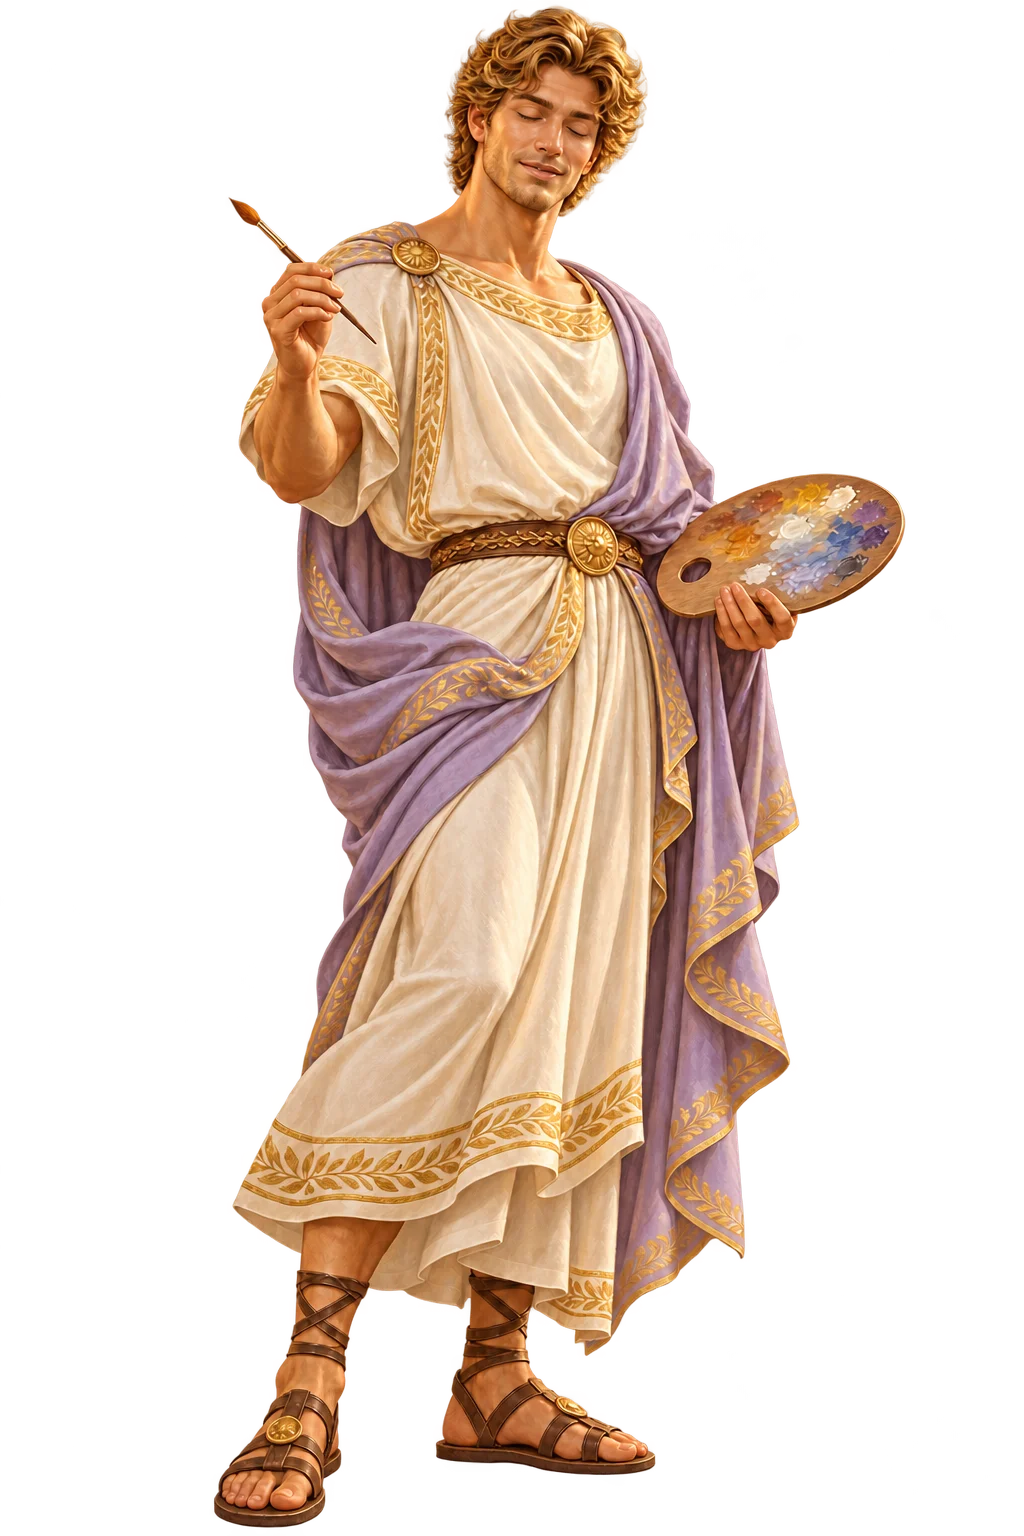
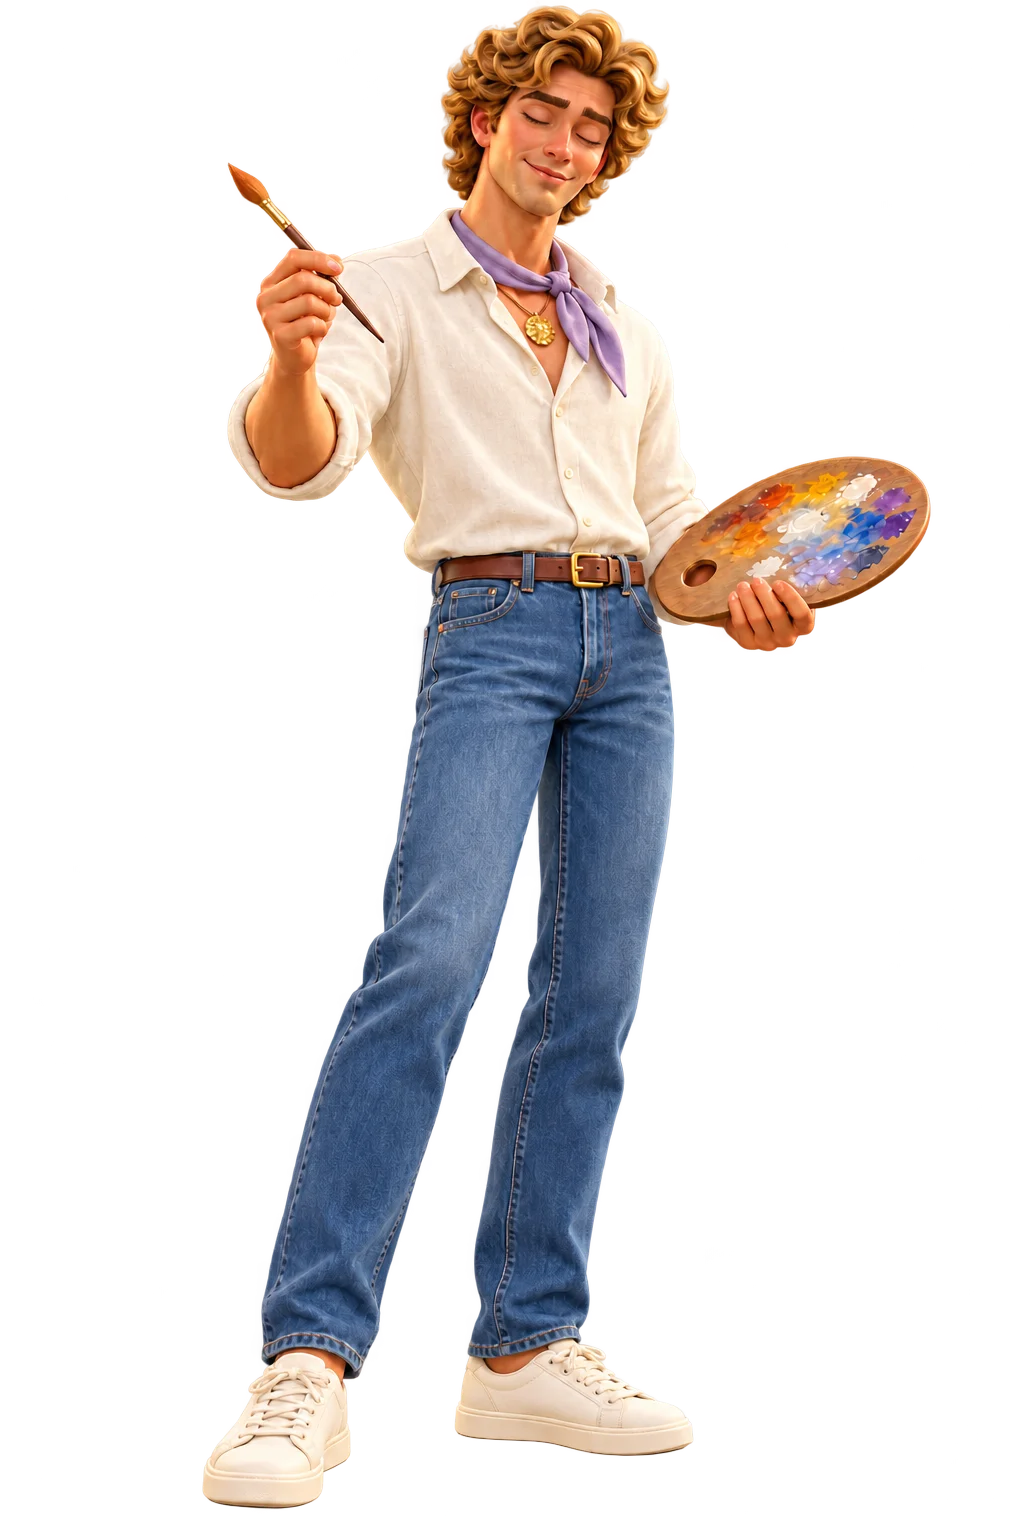
Add approved Apollo and Athena with distinct bilingual art engineering and cultural history guides

diff --git a/apollo/public/style.css b/apollo/public/style.css
@@ -18,3 +18,7 @@ body{background:#f7f2eb}header{background:#fffaf2}.heading{max-width:850px;margi
 @media(prefers-reduced-motion:reduce){.apollo-glide,.apollo-blink-frame,.cloud-veil{animation:none!important;transform:none!important}.apollo-blink-frame{opacity:0!important}}
 @media(max-width:1080px){.studio{grid-template-columns:minmax(240px,.8fr) minmax(320px,1.2fr);padding:20px;gap:18px}.apollo-scene{height:440px}.apollo-glide{height:460px;width:307px;margin-left:-153px}}
 @media(max-width:700px){main{padding:24px 4%}.heading h1{font-size:37px}.studio{display:flex;flex-direction:column;padding:15px;gap:18px;background-position:58% top}.guide-card{display:block;width:100%}.apollo-scene{height:345px}.apollo-glide{height:367px;width:245px;margin-left:-122px}.guide-card>p{max-width:420px;margin:8px auto}.guide-card strong{text-align:center}.motion-button{display:block;margin:8px auto}.lesson-card{padding:20px}.cloud-veil{height:110px;bottom:-42px}.cloud-back{bottom:12px}}
+
+.guide-picker{border:0;margin:0 auto 8px;padding:0;position:relative;z-index:4;display:flex;justify-content:center;gap:8px}.guide-picker legend{font-weight:700;font-size:13px;margin:0 auto 8px;color:#46364c}.guide-picker button{background:#fffaf3ed;padding:9px 20px;min-height:44px}.guide-picker [aria-pressed=true]{background:#665080;color:#fff;border-color:#665080}.athena .apollo-blink-frame{clip-path:inset(6.4% 44% 90.2% 45.6% round 25%)}
+
+.wonder-picker,.question-picker{display:flex;flex-wrap:wrap;gap:7px;margin:14px 0}.wonder-picker button,.question-picker button{font-size:12px;padding:9px 12px;min-height:44px}.wonder-picker [aria-pressed=true],.question-picker [aria-pressed=true]{background:#e9def1;border-color:#8b719e;font-weight:700}.role-note,.sources{font-size:12px;line-height:1.6;color:#685875}.sources a{color:#51405e;text-decoration:underline}.sources summary{cursor:pointer;min-height:44px;padding:10px 0}.lesson-card h3{font-family:Georgia,serif;font-size:24px;font-weight:400;margin:20px 0 12px}

diff --git a/apollo/README.md b/apollo/README.md
@@ -7,7 +7,7 @@ Requires Node 22 or later. No runtime dependencies or API keys.
 
     npm start
 
-Open http://localhost:3000 (or ?lang=fr). Run `npm test` for the 11 automated tests.
+Open http://localhost:3000 (or ?lang=fr). Run `npm test` for the 12 automated tests.
 
 ## What is built
 - Apollo: gently animated illustrated adult Greek-inspired artist with wavy hair, a draped tunic, palette and brush, explicitly labelled programmed/prepared, not a human or live AI.
@@ -32,7 +32,7 @@ Keep this complete folder outside the public asset root. `integration.mjs` expor
 Keep existing open-ended AI chat disabled. This prototype does not change or certify the earlier commerce backend. No Render resource, GitHub publication, DNS change or charge was made.
 
 ## Verification
-- 11 automated Node tests pass (18 full lesson/theme/material/language flows, state controls, SSR/fallback, asset allowlist, CSP and privacy source checks).
+- 12 automated Node tests pass (18 full lesson/theme/material/language flows, state controls, SSR/fallback, asset allowlist, CSP and privacy source checks).
 - Additional DOM run using the existing workspace's linkedom passed theme/material selection, French switching mid-lesson, break/resume, cancel/end, animation pause and reset.
 - Real browser screenshot attempt failed because the execution sandbox denied Chromium's socket creation. No claim of browser visual, mobile or screen-reader testing.
 - Included PNG is a separately rendered design illustration using the prototype character/content. It is labelled NOT A BROWSER SCREENSHOT; exact fonts/layout may differ on device.
@@ -49,3 +49,8 @@ Deploy only this apollo directory on branch apollo-guide-preview, not main. Buil
 Apollo is now a semi-realistic illustrated adult Greek artist, generated from the owner’s visual references, with ivory/gold/lavender clothing, palette and brush. A separately generated cloud kingdom background and CSS cloud veils create depth. Apollo glides gently; a tightly clipped matching eyelid frame provides one blink every 6.2 seconds. Lesson controls do not move. Pause disables all scene animation; reduced-motion forces a still, open-eyed pose. All image files are local WebP assets, served by an explicit allowlist. No external image or AI calls are made at runtime.
 
 Generated image assets: public/images/apollo-open.webp, apollo-blink.webp, cloud-kingdom.webp. No human interaction or sentience is implied; existing programmed-guide disclosure and hosting privacy notice remain. Browser-device visual verification is not established by source tests.
+
+## Two distinct guides
+Apollo uses the approved animated-film face and jeans outfit. He is the fictional artist, architect and engineer; his three curated EN/FR drawing activities include imagined architecture and a conceptual bridge/triangles drawing, not a construction plan. Athena wears the approved lavender jacket and jeans with owl pendant. She is the fictional historian and anthropologist, offering seven researched Wonders with preset dates, history, living cultures and reflection questions in EN/FR. Sources are linked and labelled external. Neither claims professional credentials.
+
+Guide switching preserves each activity’s separate choices in page memory. No new runtime services, AI, commerce, storage or tracking. Pause and reduced motion cover both characters. 13 automated tests verify guide selection, 56 Wonder-language-question branches and existing art flows, source links, asset serving and privacy boundaries. Actual mobile/browser visual QA is separate.
